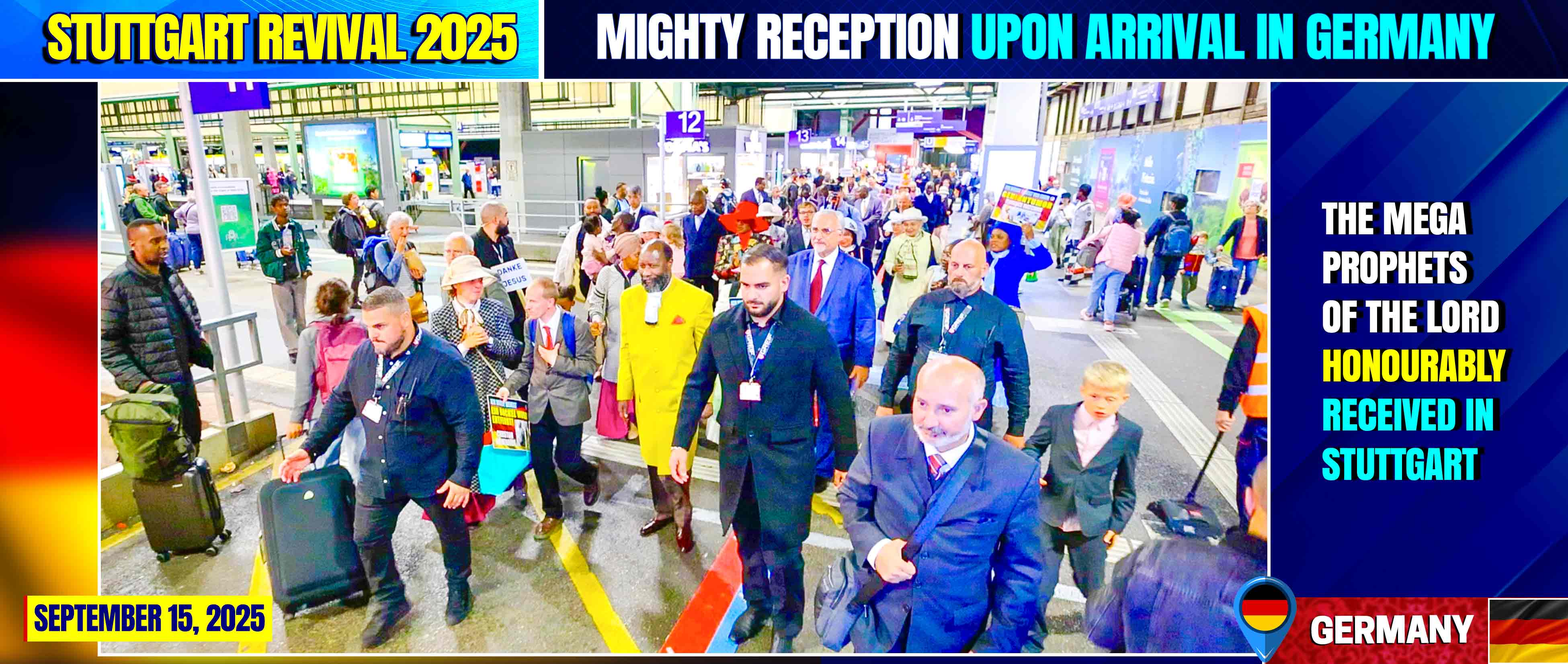
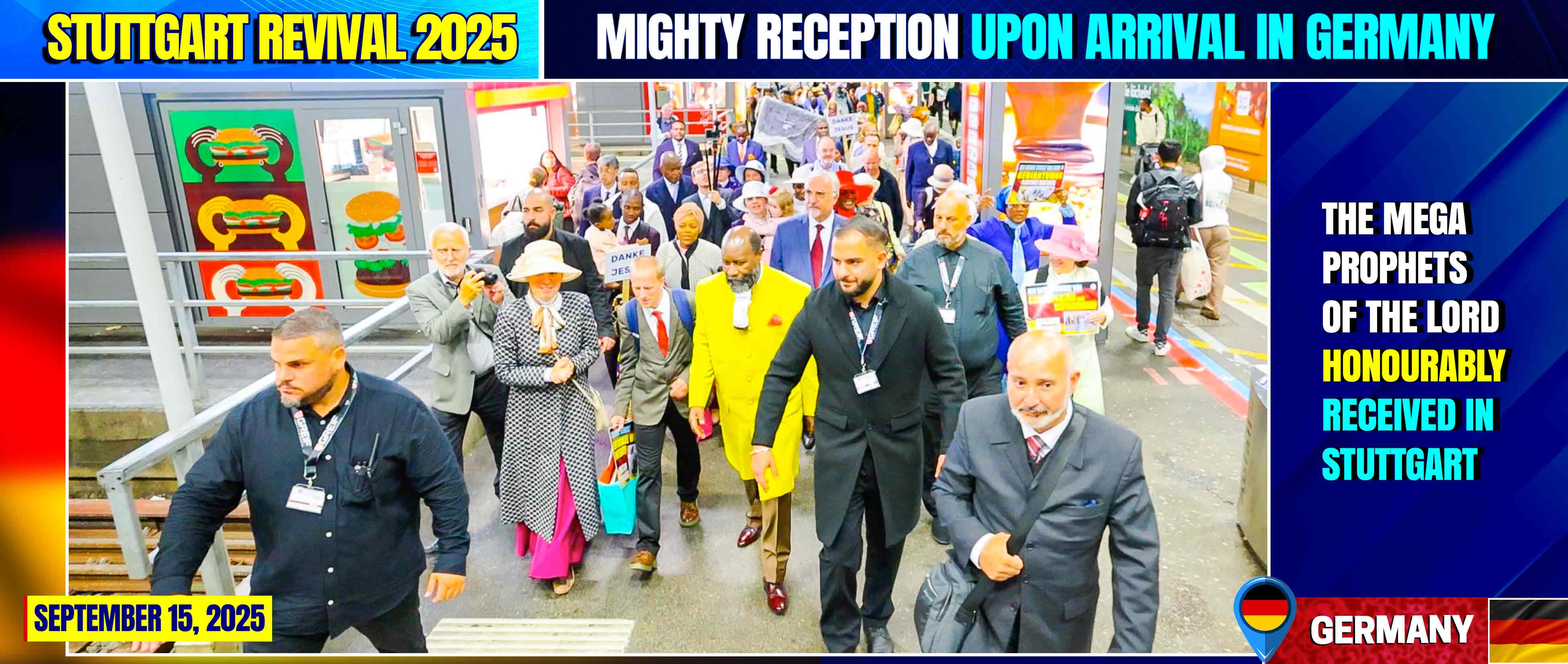
Arrival

diff --git a/index.html b/index.html
@@ -12,7 +12,7 @@
 
 <!-- ARRIVAL  -->
 
-<img class="slideshow" src= "https://pub-9f92551086574e82abebdc7b9c83cf92.r2.dev/Germany%202025/Stuttgart-arrival/Arrival-1.jpg" alt="Unstable internet, please refresh the browser">
+<img class="slideshow" src= "https://pub-9f92551086574e82abebdc7b9c83cf92.r2.dev/Germany%202025/Stuttgart-arrival/Skyline-1.jpg" alt="Unstable internet, please refresh the browser">
  <img class="slideshow" src= "https://pub-9f92551086574e82abebdc7b9c83cf92.r2.dev/Germany%202025/Stuttgart-arrival/Arrival-1.jpg" alt="Unstable internet, please refresh the browser">
  <img class="slideshow" src= "https://pub-9f92551086574e82abebdc7b9c83cf92.r2.dev/Germany%202025/Stuttgart-arrival/Arrival-2.jpg" alt="Unstable internet, please refresh the browser">
  <img class="slideshow" src= "https://pub-9f92551086574e82abebdc7b9c83cf92.r2.dev/Germany%202025/Stuttgart-arrival/Arrival-3.jpg" alt="Unstable internet, please refresh the browser">
@@ -21,6 +21,7 @@
  <img class="slideshow" src= "https://pub-9f92551086574e82abebdc7b9c83cf92.r2.dev/Germany%202025/Stuttgart-arrival/Arrival-6.jpg" alt="Unstable internet, please refresh the browser">
 <img class="slideshow" src= "https://pub-9f92551086574e82abebdc7b9c83cf92.r2.dev/Germany%202025/Stuttgart-arrival/Arrival-7.jpg" alt="Unstable internet, please refresh the browser">
 <img class="slideshow" src= "https://pub-9f92551086574e82abebdc7b9c83cf92.r2.dev/Germany%202025/Stuttgart-arrival/Arrival-11.jpg" alt="Unstable internet, please refresh the browser">
+
 
  
 
